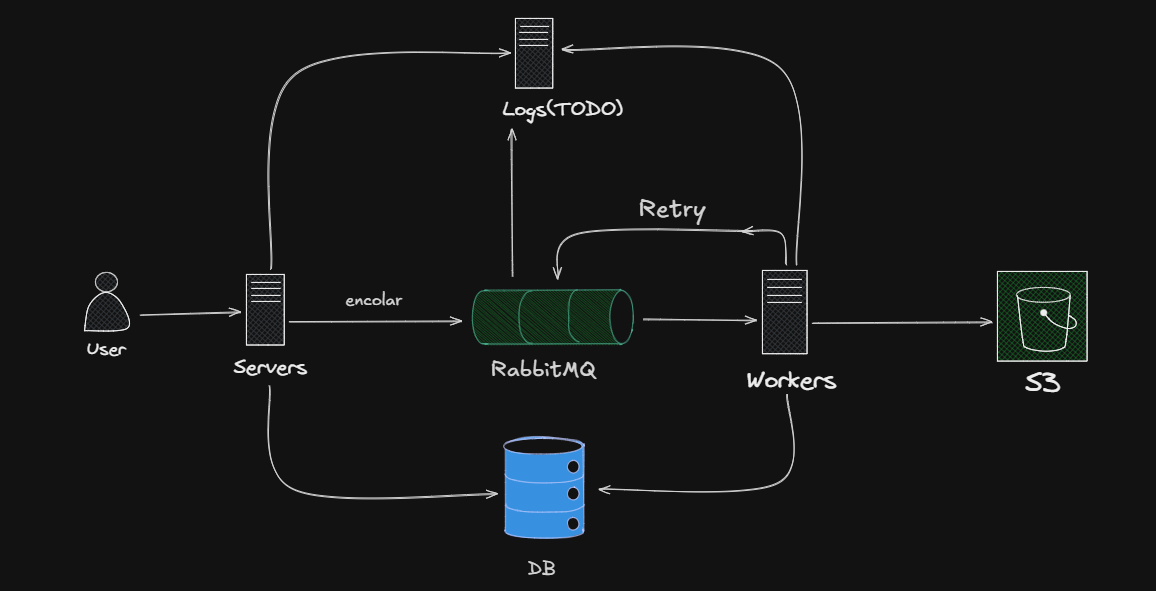
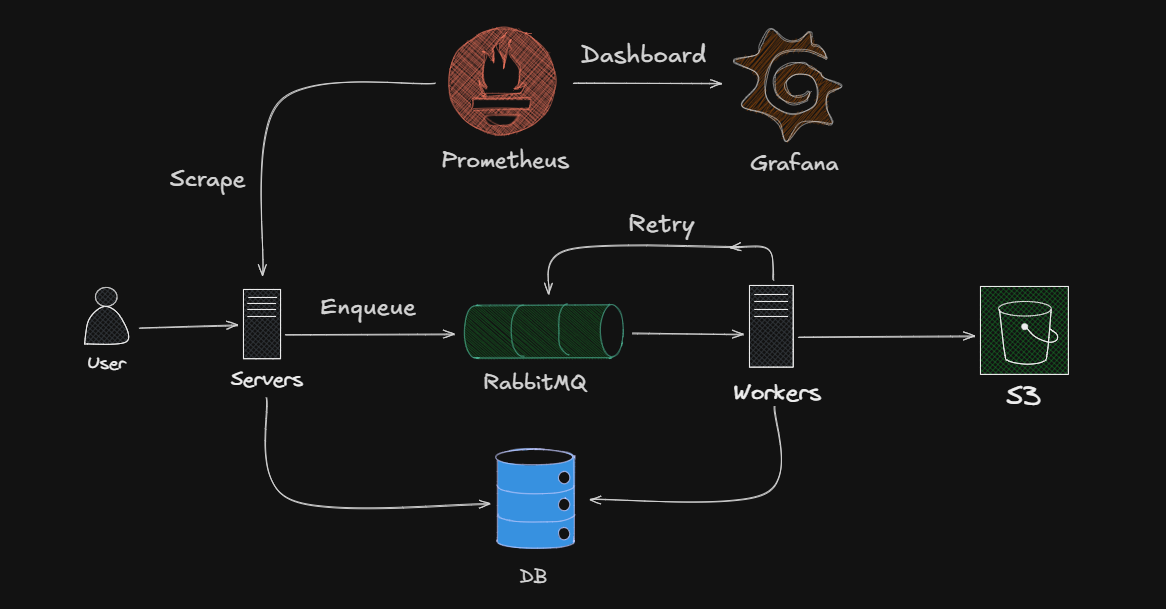
docs: update docs

diff --git a/README.md b/README.md
@@ -1,12 +1,20 @@
-# How to start the proyect
+# Go Streaming Service
 
-Este es un proyecto de servicio de streaming construído en Go. Permite transmitir contenido multimedia utilizando AWS para la gestión de archivos y PostgreSQL para manejar la información de usuarios y videos. Además, soporta Docker para facilitar su despliegue en entornos locales y de producción.
+A multimedia streaming backend built with Go that enables video upload, asynchronous processing (HLS conversion via ffmpeg), and streaming. Uses RabbitMQ for job queuing, PostgreSQL for data persistence, and supports both AWS S3 and MinIO for storage.
 
 ## Tech Stack
 
-**Client:** React, TailwindCSS
-
-**Server:** Golang, Gin, AWS, Postgresql
+- **Language:** Go 1.24
+- **Framework:** Gin
+- **Database:** PostgreSQL + GORM
+- **Migrations:** Atlas
+- **Queue:** RabbitMQ
+- **Storage:** AWS S3 / MinIO
+- **Auth:** JWT (HS256) + bcrypt
+- **Media Processing:** ffmpeg / ffprobe
+- **Monitoring:** Prometheus + Grafana
+- **Logging:** slog (structured logging)
+- **Docs:** Swagger (swag)
 
 ## Architecture
 
@@ -14,7 +22,7 @@ Este es un proyecto de servicio de streaming construído en Go. Permite transmit
 
 ### Request Flow
 ```
-HTTP Request → Gin Router → Middlewares (CORS, Auth) → Controllers → Services → Data Layer (GORM/S3)
+HTTP Request -> Gin Router -> Middlewares (CORS, Auth, RateLimit) -> Controllers -> Services -> Data Layer (GORM/S3)
 ```
 
 ### Video Processing Pipeline
@@ -25,102 +33,197 @@ HTTP Request → Gin Router → Middlewares (CORS, Auth) → Controllers → Ser
 5. Worker saves video metadata to PostgreSQL and updates job status to "completed"
 6. Client queries job status (`GET /api/v1/jobs/:id`) and streams the video once ready
 
-## Requerimientos
+## Features
 
-Para utilizar este proyecto, necesitas:
+- Asynchronous video processing with RabbitMQ workers (HLS conversion + thumbnail generation)
+- JWT authentication with refresh tokens and logout
+- Video tagging system (many-to-many)
+- Video search with pagination
+- Rate limiting per IP (Token Bucket algorithm)
+- Monitoring with Prometheus metrics and Grafana dashboards
+- Structured logging with slog
+- Health check and readiness endpoints
+- Swagger API documentation
+- Declarative database migrations with Atlas
 
-### Obligatorios
+## Requirements
 
-- **Git**: Para clonar el repositorio.
-- **Go**: Para ejecutar y compilar el proyecto. (Versión recomendada: 1.24.0, utilizada en el `go.mod`).
-- **Atlas**: Para gestionar migraciones de base de datos. [Instalacion](https://atlasgo.io/getting-started#installation).
+- **Git**
+- **Docker** and **Docker Compose** (recommended)
 
-### Opcionales
+Or, to run without Docker:
 
-- **Docker**: Para contenerizar la aplicación.
-- **Docker Compose**: Para orquestar servicios si se utiliza Docker.
+- **Go** 1.24+
+- **PostgreSQL** 15+
+- **RabbitMQ** 3+
+- **MinIO** or **AWS S3** account
+- **ffmpeg** and **ffprobe** installed
+- **Atlas** CLI - [Installation](https://atlasgo.io/getting-started#installation)
 
 ## Installation
 
 ```bash
-  git clone https://github.com/Unbot2313/go-streaming-service.git
-  cd go-streaming-service/
+git clone https://github.com/Unbot2313/go-streaming-service.git
+cd go-streaming-service/
 ```
 
-## Usage/Examples
+## Environment Variables
 
-Para usarla con Go!:
+Create a `.env` file based on `.env.example`:
 
 ```bash
-    go mod tidy
-    go run main.go
+cp .env.example .env
 ```
 
-Con docker(incluye la instancia de postgresql en local):
+Then edit `.env` with your values. Example for local development with Docker:
+
+```env
+PORT=3003
+JWT_SECRET_KEY=your-secret-key-must-be-at-least-32-characters-long
+LOCAL_STORAGE_PATH=./static/videos
+
+CORS_ALLOWED_ORIGINS=http://localhost:3000
+
+POSTGRES_HOST=localhost
+POSTGRES_PORT=5432
+POSTGRES_USER=postgres
+POSTGRES_PASSWORD=postgres
+POSTGRES_DB=streaming_db
+
+STORAGE_TYPE=minio
+
+MINIO_ENDPOINT=localhost:9000
+MINIO_BUCKET_NAME=streaming-videos
+MINIO_ACCESS_KEY=minioadmin
+MINIO_SECRET_KEY=minioadmin
+
+RABBITMQ_HOST=localhost
+RABBITMQ_PORT=5672
+RABBITMQ_USER=guest
+RABBITMQ_PASSWORD=guest
+RABBITMQ_VIDEO_QUEUE=video_processing
+RABBITMQ_THUMBNAIL_QUEUE=thumbnail_generation
+
+GRAFANA_ADMIN_USER=admin
+GRAFANA_ADMIN_PASSWORD=admin
+```
+
+For AWS S3 storage or other configurations, see all available variables in `.env.example`.
+
+### Validations
+
+| Variable | Rule |
+|----------|------|
+| `JWT_SECRET_KEY` | **Required**. Must be at least 32 characters. The app will panic on startup if missing or too short. |
+| `POSTGRES_PASSWORD` | Warns if set to default `postgres` |
+| `RABBITMQ_PASSWORD` | Warns if set to default `guest` |
+| `STORAGE_TYPE` | `minio` for local development, `s3` for production |
+| `GRAFANA_*` | Only used by docker-compose, does not affect the Go app |
+
+## Running with Docker (Recommended)
+
+This starts PostgreSQL, RabbitMQ, MinIO, the API server, Prometheus, and Grafana:
 
 ```bash
-    docker compose up --build
+docker compose up --build
+```
+
+The API server runs automatically. To also run the **video processing worker**, open a separate terminal:
+
+```bash
+docker exec -it go_streaming_service go run cmd/rabbitmq/consumer/main.go
+```
+
+## Running with Go
+
+Make sure PostgreSQL, RabbitMQ, and MinIO (or S3) are running and accessible with the credentials in your `.env`.
+
+```bash
+go mod tidy
+go run main.go
+```
+
+In a separate terminal, start the worker:
+
+```bash
+go run cmd/rabbitmq/consumer/main.go
+```
+
+Or using the Makefile:
+
+```bash
+make run      # API server
+make worker   # Video processing worker
 ```
 
 ## Database Migrations
 
-El proyecto usa [Atlas](https://atlasgo.io/) para migraciones declarativas. Atlas lee los modelos GORM y genera archivos SQL versionados automaticamente.
+The project uses [Atlas](https://atlasgo.io/) for declarative database migrations. Atlas reads the GORM models and generates versioned SQL files.
+
+### First time setup
+
+If the database is empty (fresh install), apply all migrations:
 
 ```bash
-# Generar una migracion despues de modificar un modelo
+make migrate-apply DATABASE_URL="postgres://postgres:postgres@localhost:5432/streaming_db?sslmode=disable"
+```
+
+If the database already has tables (e.g. from a previous version using AutoMigrate), use baseline to mark existing migrations as applied without running them:
+
+```bash
+make migrate-baseline version=20260207231247 DATABASE_URL="postgres://postgres:postgres@localhost:5432/streaming_db?sslmode=disable"
+```
+
+### After modifying a model
+
+```bash
+# Generate a new migration
 make migrate-diff name=describe_change
 
-# Aplicar migraciones pendientes
-make migrate-apply DATABASE_URL="postgres://user:pass@localhost:5432/dbname?sslmode=disable"
+# Review the generated SQL in migrations/
 
-# Ver estado de migraciones
-make migrate-status DATABASE_URL="postgres://user:pass@localhost:5432/dbname?sslmode=disable"
+# Apply the new migration
+make migrate-apply DATABASE_URL="postgres://postgres:postgres@localhost:5432/streaming_db?sslmode=disable"
+
+# Check migration status
+make migrate-status DATABASE_URL="postgres://postgres:postgres@localhost:5432/streaming_db?sslmode=disable"
+```
+
+## Local URLs
+
+When running with Docker:
+
+| Service | URL | Credentials |
+|---------|-----|-------------|
+| API | http://localhost:3003 | - |
+| Swagger Docs | http://localhost:3003/docs/index.html | - |
+| Grafana | http://localhost:3001 | `GRAFANA_ADMIN_USER` / `GRAFANA_ADMIN_PASSWORD` from `.env` |
+| Prometheus | http://localhost:9090 | No auth |
+| RabbitMQ Management | http://localhost:15672 | `RABBITMQ_USER` / `RABBITMQ_PASSWORD` from `.env` |
+| MinIO Console | http://localhost:9001 | `MINIO_ACCESS_KEY` / `MINIO_SECRET_KEY` from `.env` |
+
+## API Documentation
+
+Interactive API docs are available at `/docs/index.html` when the server is running.
+
+To update the documentation after modifying controller annotations:
+
+```bash
+go install github.com/swaggo/swag/cmd/swag@latest
+swag init
+```
+
+Or using the Makefile:
+
+```bash
+make swagger
 ```
 
 ## Contributing
 
-Contributions are always welcome!
+Contributions are welcome!
 
-Please star a new fork, then make a pull request
-
-In case of change the documentation make that:
-
-```bash
-    go install github.com/go-swagger/go-swagger/cmd/swagger@latest
-    swag init #update the documentation from the swagger
-```
-
-## Rate Limiting
-
-Uses the **Token Bucket** algorithm (`golang.org/x/time/rate`) to control request rates per client IP.
-
-### How it works
-- A "bucket" fills with tokens at a constant rate
-- Each request consumes 1 token
-- If the bucket is empty, the request is rejected with HTTP 429 (Too Many Requests)
-- Tokens accumulate up to a maximum (burst), allowing short traffic spikes
-
-### Current configuration
-
-| Scope | Rate | Burst | Description |
-|-------|------|-------|-------------|
-| General (all routes) | 10 tokens/sec | 20 | Normal usage, allows short bursts |
-| Auth (`/login`, `/register`) | 1 token every 20s | 3 | Brute force protection |
-
-### Customization
-Rate limits are configured in code:
-- **General**: `main.go` - `middlewares.NewRateLimiter(10, 20)`
-- **Auth**: `internal/routes/routes.go` - `middlewares.NewRateLimiter(rate.Every(20*time.Second), 3)`
-
-To change limits, modify the two parameters: `rate` (tokens per second or interval) and `burst` (max accumulated tokens).
-
-### Scaling note
-The rate limiter stores counters in memory per server instance. If deploying multiple instances (e.g. Kubernetes), each instance tracks independently. For distributed rate limiting, replace with a Redis-backed solution like `github.com/ulule/limiter`.
-
-## Features
-
-- Manejar la carga de videos usando algun servicio de background jobs e implementar su visualizacion de progreso
-- RefreshTokens
-- Manejar transmision en vivos
-- Terminar el README.md
-- Optimizar el dockerFile
+1. Fork the repository
+2. Create a branch based on `develop` (`git checkout -b feat/my-feature develop`)
+3. Commit your changes
+4. Push to your fork and open a Pull Request against `develop`
